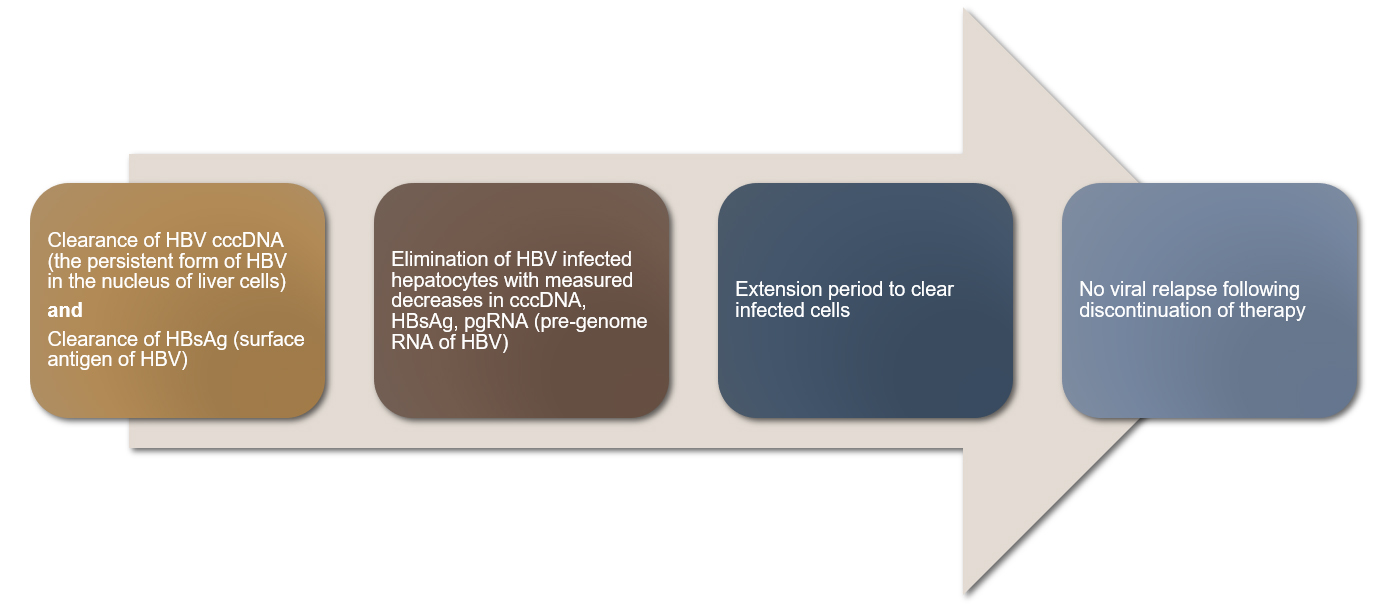
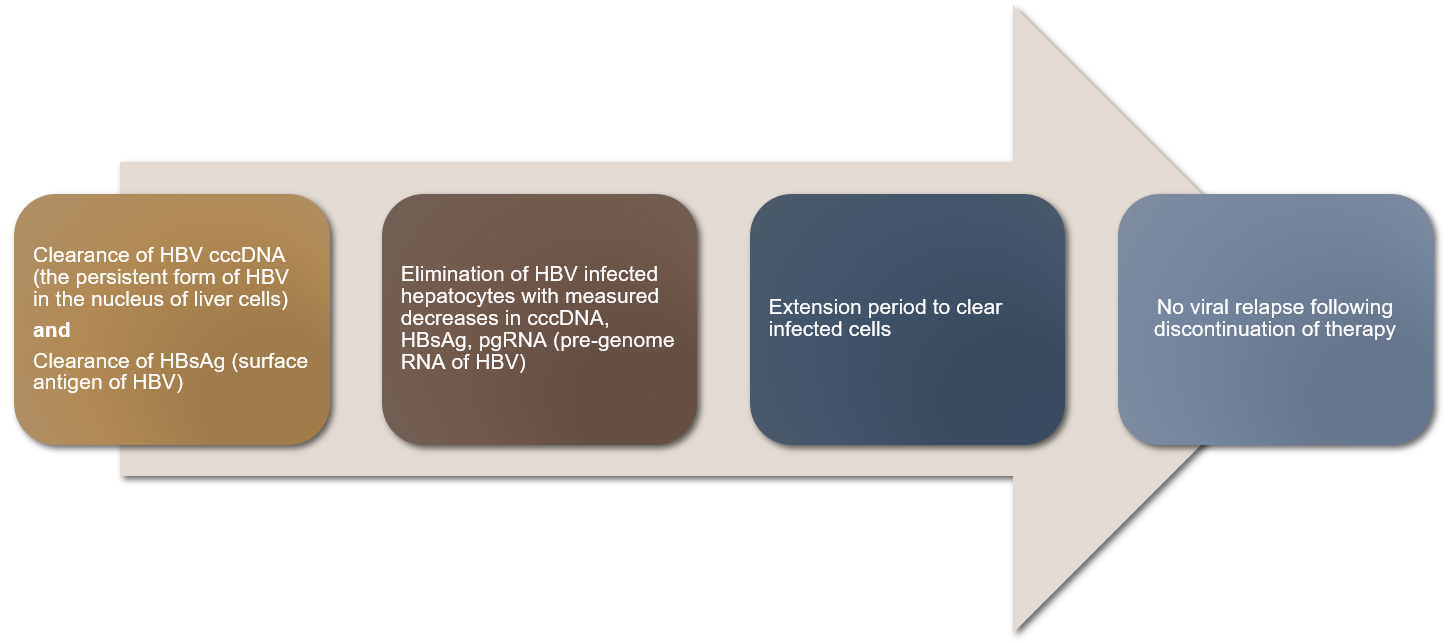
modified science page

Changed region(s): [[0.0, 0.0, 1.0, 1.0], [0.0307, 0.25, 0.0921, 0.3125], [0.5221, 0.2812, 0.5529, 0.3125]]

diff --git a/content/science.md b/content/science.md
@@ -12,6 +12,6 @@ Unlike other nucleoside analogues against HBV, the active 5' triphosphate of ATI
 
 {{< figure src="/img/Achieving-an-HBV-Cure.jpg"  class="text-center science-img">}}
 
-<p class="text-center science-subhead"><strong>Potential Curative HBV Therapy</strong></p>
+<p class="text-center science-subhead"><strong>ATI-2173: Backbone of a Curative Regimen</strong></p>
  
-{{< figure src="/img/Potential-Curative-HBV-Therapy.jpg"  class="text-center science-img">}}
+{{< figure src="/img/Backbone-of-a-Curative-Regimen.jpg"  class="text-center science-img">}}
